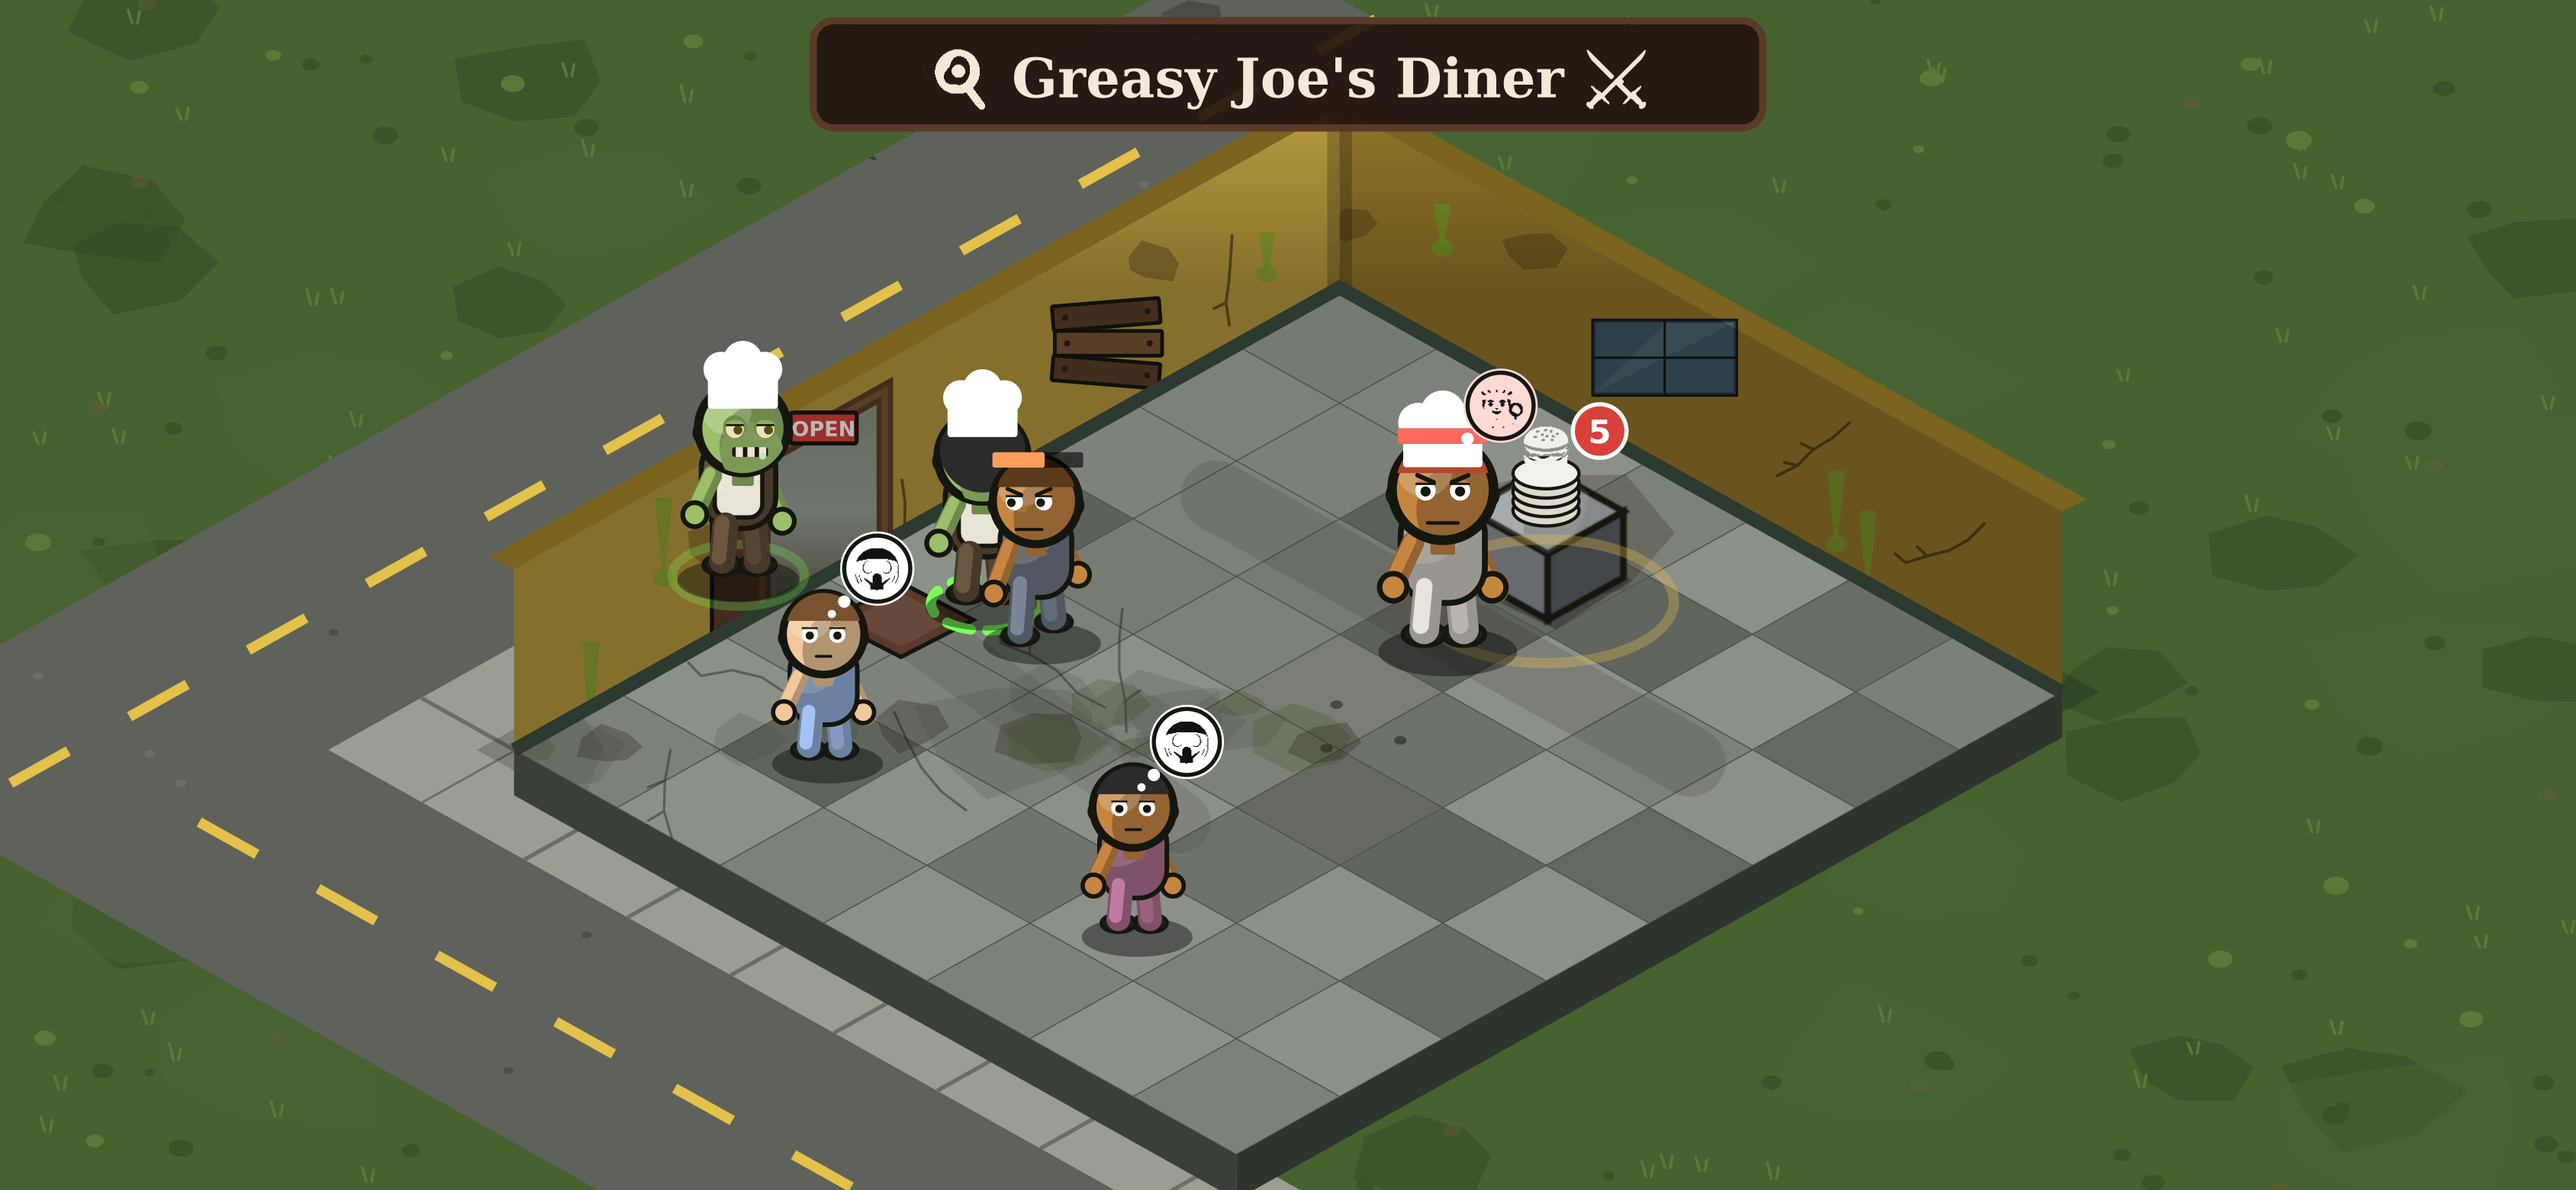
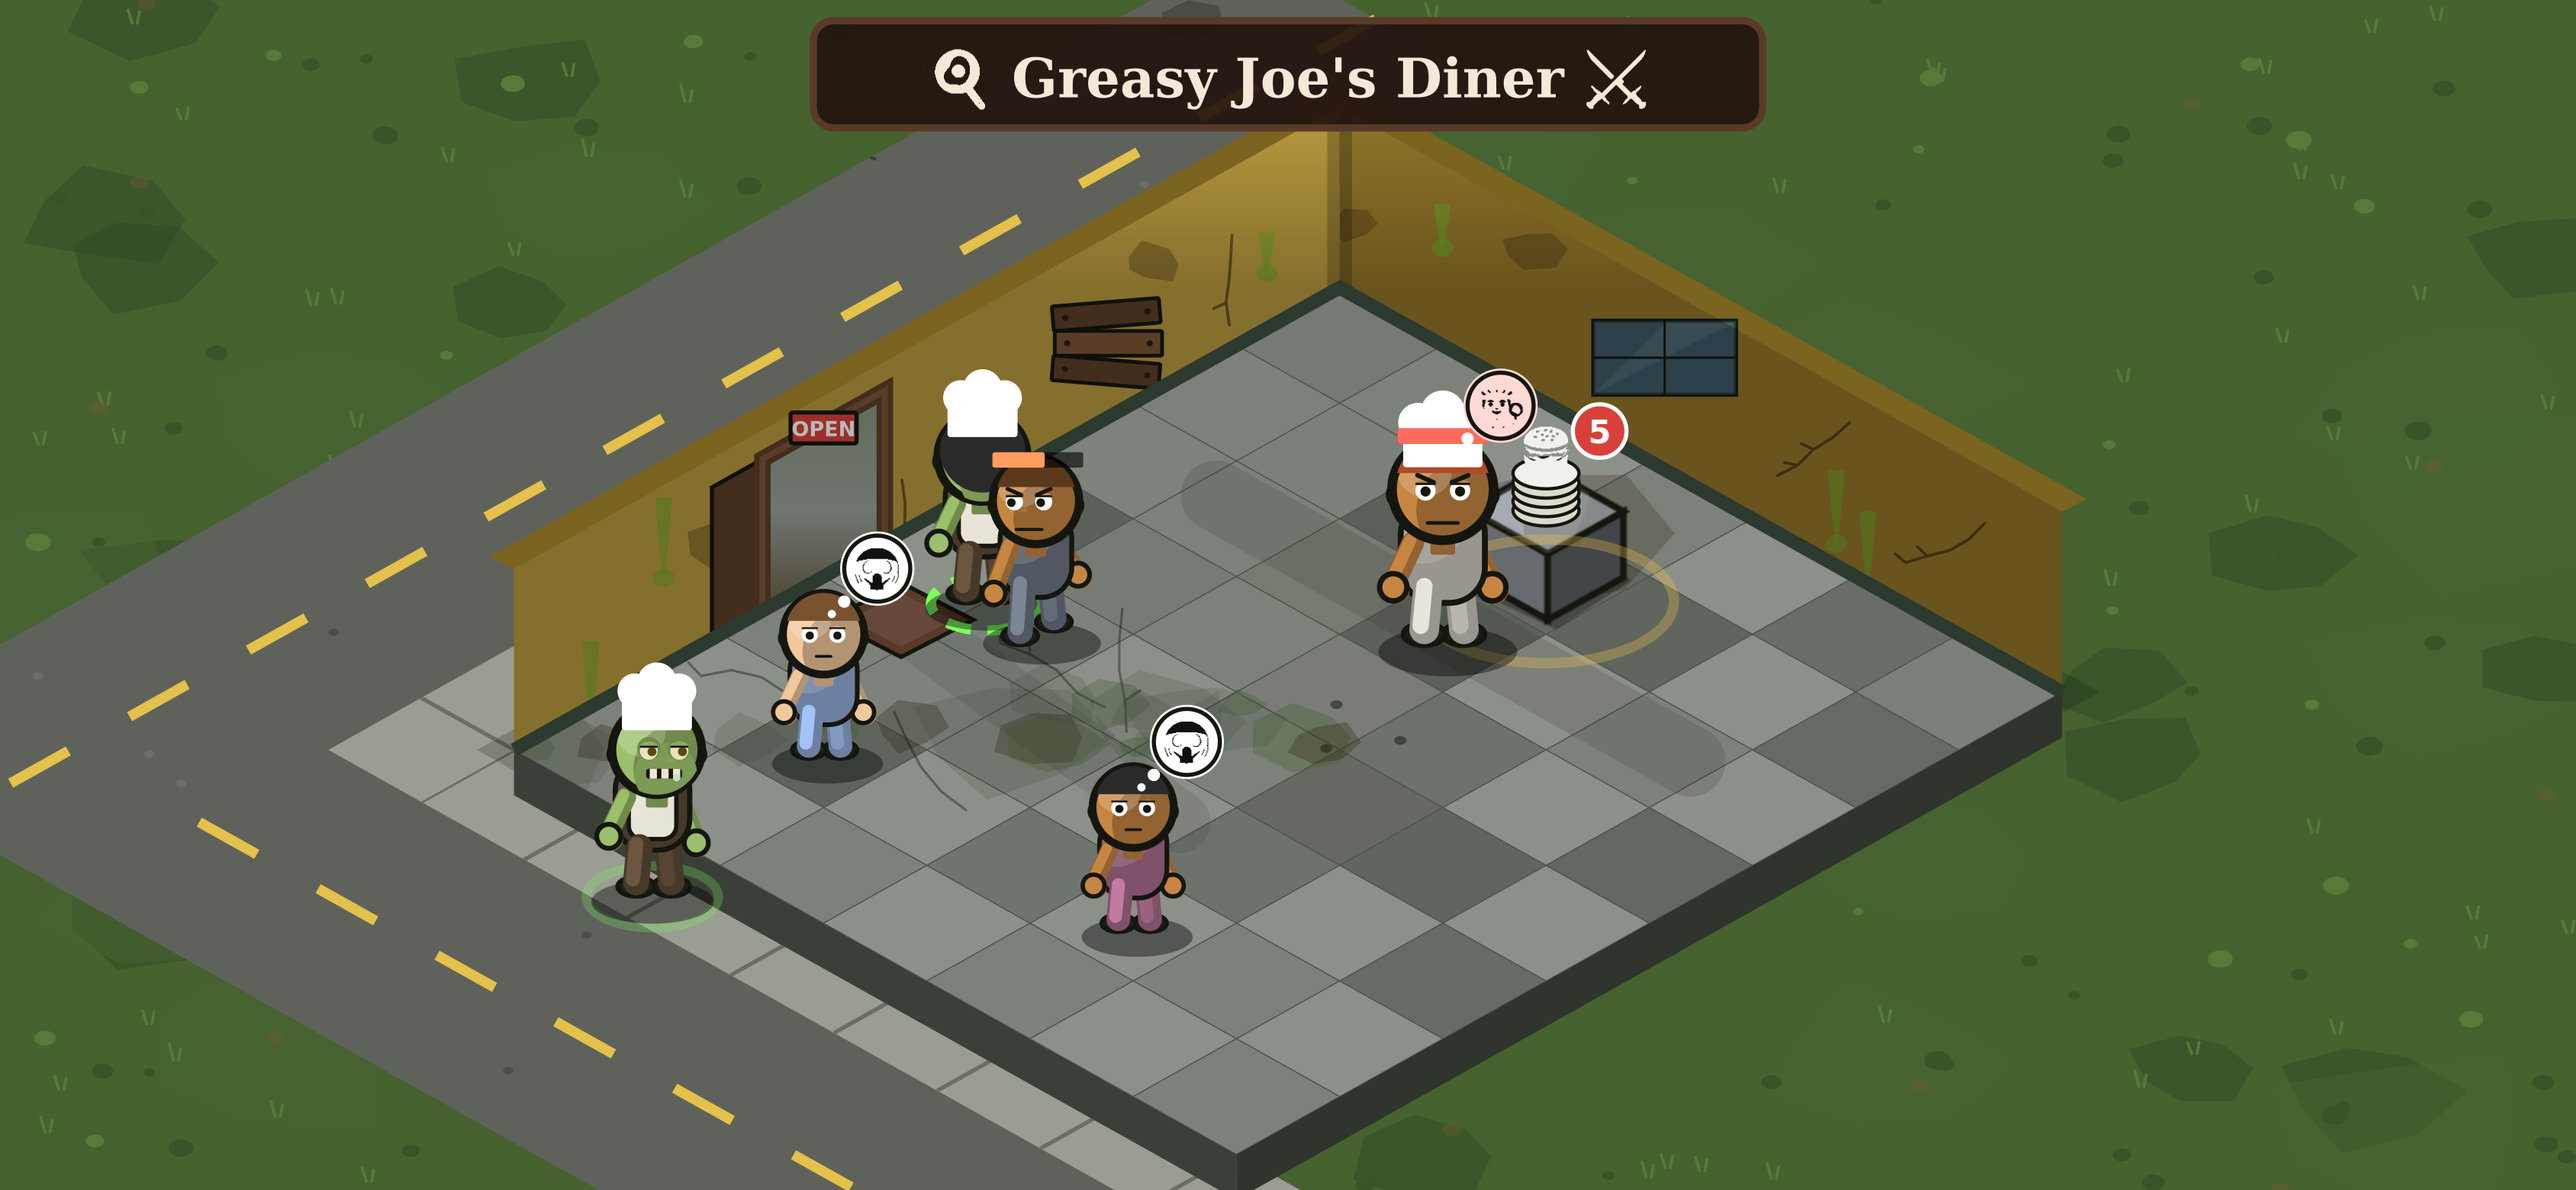
Self-audit polish: staff line, battle sightlines, expansion-aware kitchen, help
- FIX: idle zombies parked INSIDE the serving counters — home spots were
  on row 1 cols 2-5, exactly where the 1x1 pass counters sit. Staff now
  wait single-file along the left wall, clear of counters, dining cells
  and the door row.
- FIX: the raid line-up clipped through the west wall (drawn over it,
  depth-wrong). The squad now lines up on the SOUTH sidewalk out front —
  fully visible, depth-correct, easy to tap.
- FIX: the rival arena rendered at your expanded size while its defenders
  were laid out for the base grid. Raid battles now always render at the
  base 7x8 arena.
- Kitchen grows with the café: 4 more stove slots (cols 7-10) open as you
  expand; build ghost and store respect slot availability.
- Help panel covers the new systems: live raids, review board, recipe
  variants, expansion, staff XP.
- 61/61 tests; proofs reshot (starter/busy/raidBattle/expanded).

https://claude.ai/code/session_01PNHoqqSvj3UaeYPZXKA2ik

Changed region(s): [[0.2177, 0.5538, 0.2799, 0.8], [0.2488, 0.2769, 0.311, 0.5231]]

diff --git a/www/world.js b/www/world.js
@@ -62,7 +62,8 @@
 
   // ---- layout: everything aligned to TILE CENTERS (square grid) -------
   // Kitchen appliances line the back wall on row 0 (slot = a tile center).
-  var STOVE_SLOTS = [ {x:60,y:60}, {x:180,y:60}, {x:300,y:60}, {x:540,y:60}, {x:660,y:60}, {x:780,y:60} ];
+  var STOVE_SLOTS = [ {x:60,y:60}, {x:180,y:60}, {x:300,y:60}, {x:540,y:60}, {x:660,y:60}, {x:780,y:60},
+                      {x:900,y:60}, {x:1020,y:60}, {x:1140,y:60}, {x:1260,y:60} ];   // cols 7-10 open with expansions
   // The dining floor: cols 1-5 x rows 2-6 of exact tile centers. Tables AND
   // decor occupy cells (decorating trades off seating); col 0/6 stay as aisles.
   var CELLS = (function () {
@@ -85,7 +86,10 @@
   // Entrance: a doorway in the LEFT wall (plane x≈0), down toward the dining
   // area (kitchen runs along the top). Customers spawn/leave just inside it.
   var DOOR = { x: 60, y: 600 };
-  function home(i) { return { x: 110 + (i % 5) * 150, y: 210 + Math.floor(i / 5) * 64 }; }
+  // idle staff wait along the LEFT wall (col 0), clear of the serving
+  // counters (row 1, cols 2-5), the dining cells and the door row
+  var HOME_YS = [180, 290, 400, 510, 760, 870];
+  function home(i) { return { x: 64 + Math.floor(i / HOME_YS.length) * 38, y: HOME_YS[i % HOME_YS.length] }; }
 
   // =====================================================================
   function World(saved) { this.events = []; saved ? this._restore(saved) : this._fresh(); }
@@ -197,8 +201,9 @@
     return true;
   };
   World.prototype.firstFreeCell = function () { for (var i = 0; i < CELLS.length; i++) if (this.cellFree(i)) return i; return -1; };
+  World.prototype.stoveSlotUsable = function (s) { var sp = STOVE_SLOTS[s]; return !!sp && Math.floor(sp.x / TILE) < this.colsNow(); };
   World.prototype.freeStoveSlot = function () {
-    for (var s = 0; s < STOVE_SLOTS.length; s++) { var used = false; for (var i = 0; i < this.stoves.length; i++) if (this.stoves[i].slot === s) used = true; if (!used) return s; } return -1;
+    for (var s = 0; s < STOVE_SLOTS.length; s++) { if (!this.stoveSlotUsable(s)) continue; var used = false; for (var i = 0; i < this.stoves.length; i++) if (this.stoves[i].slot === s) used = true; if (!used) return s; } return -1;
   };
   World.prototype._mkZombie = function (i, rar) { var h = home(i); rar = rar || rollRarity(); var s = statsFor(rar);
     return { id: uid(), x: h.x, y: h.y, hx: h.x, hy: h.y, state: 'idle', tx: h.x, ty: h.y, fx: h.x, fy: h.y, path: [], carry: null, carryBatch: null, job: null, cleanId: null, stoveId: null, face: 'L', step: Math.random() * 6,
@@ -568,8 +573,8 @@
     var ready = this.activeZombies().filter(function (z) { return z.reanimateUntil <= this.t; }, this);
     return !this.battle && this.level >= rv.level && ready.length >= 1;
   };
-  // sidewalk line-up spot i: on the pavement outside the door, single file
-  World.prototype._lineupSpot = function (i) { return { x: -64, y: 640 + i * 105 }; };
+  // sidewalk line-up spot i: on the pavement out front, single file
+  World.prototype._lineupSpot = function (i) { return { x: 220 + i * 130, y: ROWS * TILE + 64 }; };   // base-size arena's south pavement
   World.prototype.startRaid = function (rivalId) {
     var rv = RIVAL[rivalId]; if (!this.canRaid(rivalId)) return false;
     var self = this, lineup = [];
@@ -882,7 +887,7 @@
   // Returns { ok, reason }. Used by the placement ghost (green/red).
   World.prototype.placementValidity = function (kind, cell, exceptId) {
     if (kind === 'stove') {
-      if (cell == null || cell < 0) return { ok: false, reason: 'Outside café' };
+      if (cell == null || cell < 0 || !this.stoveSlotUsable(cell)) return { ok: false, reason: 'Outside café' };
       for (var i = 0; i < this.stoves.length; i++) if (this.stoves[i].slot === cell && this.stoves[i].id !== exceptId) return { ok: false, reason: 'Overlaps furniture' };
       return { ok: true };
     }

diff --git a/www/game.js b/www/game.js
@@ -528,7 +528,11 @@
       h('🔥', 'Don\'t burn it!', 'Finished food sits on the stove — move it to the pass (or let Auto carry it) before it burns. Burnt food is wasted and drops your rating. Tap a burnt stove to wipe it clean.') +
       h('⭐', 'Rating', 'The stars (top bar) rise with fast, happy service and clean tables, and fall from long waits, dirty tables and burnt food. Higher rating = more & richer customers.') +
       h('🧟♀', 'Infect', 'Tap a customer with a green 🧟 bubble to spend toxin and turn them into a new zombie worker.') +
-      h('⚔', 'Raid', 'Open the Raid Map to send zombie squads to take over rival cafes — win loot into your 🧊 Fridge and unlock their recipe.') +
+      h('⚔', 'Raid', 'Open the Raid Map to attack a rival café LIVE: your squad lines up on the sidewalk — tap a zombie to send it in one at a time, tap an enemy to attack it, tap their counter to steal food. Waiters are weak; the Head Chef is the boss. ☣ Energize heals mid-fight, 🏳 retreats (you keep eaten cash).') +
+      h('📋', 'Reviews', 'At level 6 the critics arrive: finish all 4 tasks for a ✦ purple bonus star (max 3 — they fade over time). Bribe a stuck task for 2 toxin.') +
+      h('🌶', 'Variants', 'Most dishes unlock variant versions (Spicy = more XP, Fancy = more coins, Bulk = double batch, Quick = faster, Fresh = slower to burn, Frozen = long idle cook). Pick them as chips in the cook panel.') +
+      h('📐', 'Expand', 'From level 7, buy the grass next door (Store ▸ Utility) — the floor grid grows for more tables, decor and stoves.') +
+      h('⬆', 'Staff XP', 'Zombies level up from serving and raid kills — a level-up fully recharges them and raises their stats.') +
       h('🧊', 'Fridge', 'Stolen raid food lives here. Serve it on the pass, or unlock a brand-new recipe from it.') +
       h('😴', 'Staff', 'Tap a zombie to see its energy & stats. Working tires them; tired zombies rest. Set a job (Auto/Waiter/Cleaner/Rest) or Feed them toxin to refill.') +
       h('🧽', 'Clean', 'After customers eat, tables get dirty (flies!). Zombies bus them so new customers can sit.') +

diff --git a/www/render.js b/www/render.js
@@ -14,6 +14,7 @@
 (function () {
   'use strict';
   var Wld = window.World;
+  var BASE_COLS = Wld.COLS, BASE_ROWS = Wld.ROWS;       // pre-expansion grid (raid arenas use this)
   function recipe(id) { for (var i = 0; i < (window.RECIPES || []).length; i++) if (window.RECIPES[i].id === id) return window.RECIPES[i]; return null; }
   function shop(id) { for (var i = 0; i < (window.SHOP || []).length; i++) if (window.SHOP[i].id === id) return window.SHOP[i]; return null; }
 
@@ -102,8 +103,11 @@
     this._selZ = ui.selZ || null;                       // tap-command selection
     this._foodReady = world.ready.length > 0;
     this._t = t;
-    // café expansion: the floor grid can grow — refit the projection
-    var dw = (world.colsNow ? world.colsNow() : Wld.COLS) * Wld.TILE, dh = (world.rowsNow ? world.rowsNow() : Wld.ROWS) * Wld.TILE;
+    // café expansion: the floor grid can grow — refit the projection. The
+    // raid arena (a rival café) always renders at the BASE size.
+    var dw, dh;
+    if (world.battle) { dw = BASE_COLS * Wld.TILE; dh = BASE_ROWS * Wld.TILE; }
+    else { dw = (world.colsNow ? world.colsNow() : Wld.COLS) * Wld.TILE; dh = (world.rowsNow ? world.rowsNow() : Wld.ROWS) * Wld.TILE; }
     if (dw !== Wld.W || dh !== Wld.H) { Wld.W = dw; Wld.H = dh; Wld.COLS = dw / Wld.TILE; Wld.ROWS = dh / Wld.TILE; this.resize(); }
     if (world.battle) { this._drawBattle(world, t, ui); return; }
     var c = this.ctx, cvW = this.cv.width, cvH = this.cv.height;

diff --git a/test/world.test.js b/test/world.test.js
@@ -77,7 +77,7 @@ test('raid battle: sidewalk line-up, one-by-one deploy, win pays loot', () => {
   const B = w.battle;
   assert.ok(B, 'live battle started');
   assert.strictEqual(B.lineup.length, 1, 'squad lines up on the sidewalk');
-  assert.ok(w.zombies[0].x < 0, 'line-up stands OUTSIDE the café');
+  assert.ok(w.zombies[0].y > 960, 'line-up stands OUTSIDE on the south sidewalk');
   assert.ok(B.enemies.some((e) => e.kind === 'chef'), 'the head chef defends');
   assert.ok(B.enemies.some((e) => e.kind === 'waiter'), 'waiters defend');
   // nothing happens until YOU deploy — one at a time
@@ -799,6 +799,7 @@ test('recipe variants: original multipliers generate derived cookbook entries', 
 
 test('a variant dish cooks, plates and serves end-to-end', () => {
   const w = boot();
+  w.auto = false;                                        // manual flow: idle staff would snatch it instantly
   w.coins = 999;
   assert.ok(w.startCook(w.stoves[0].id, 'coffee.fancy'), 'variant cook starts');
   const st = w.stoves[0];
